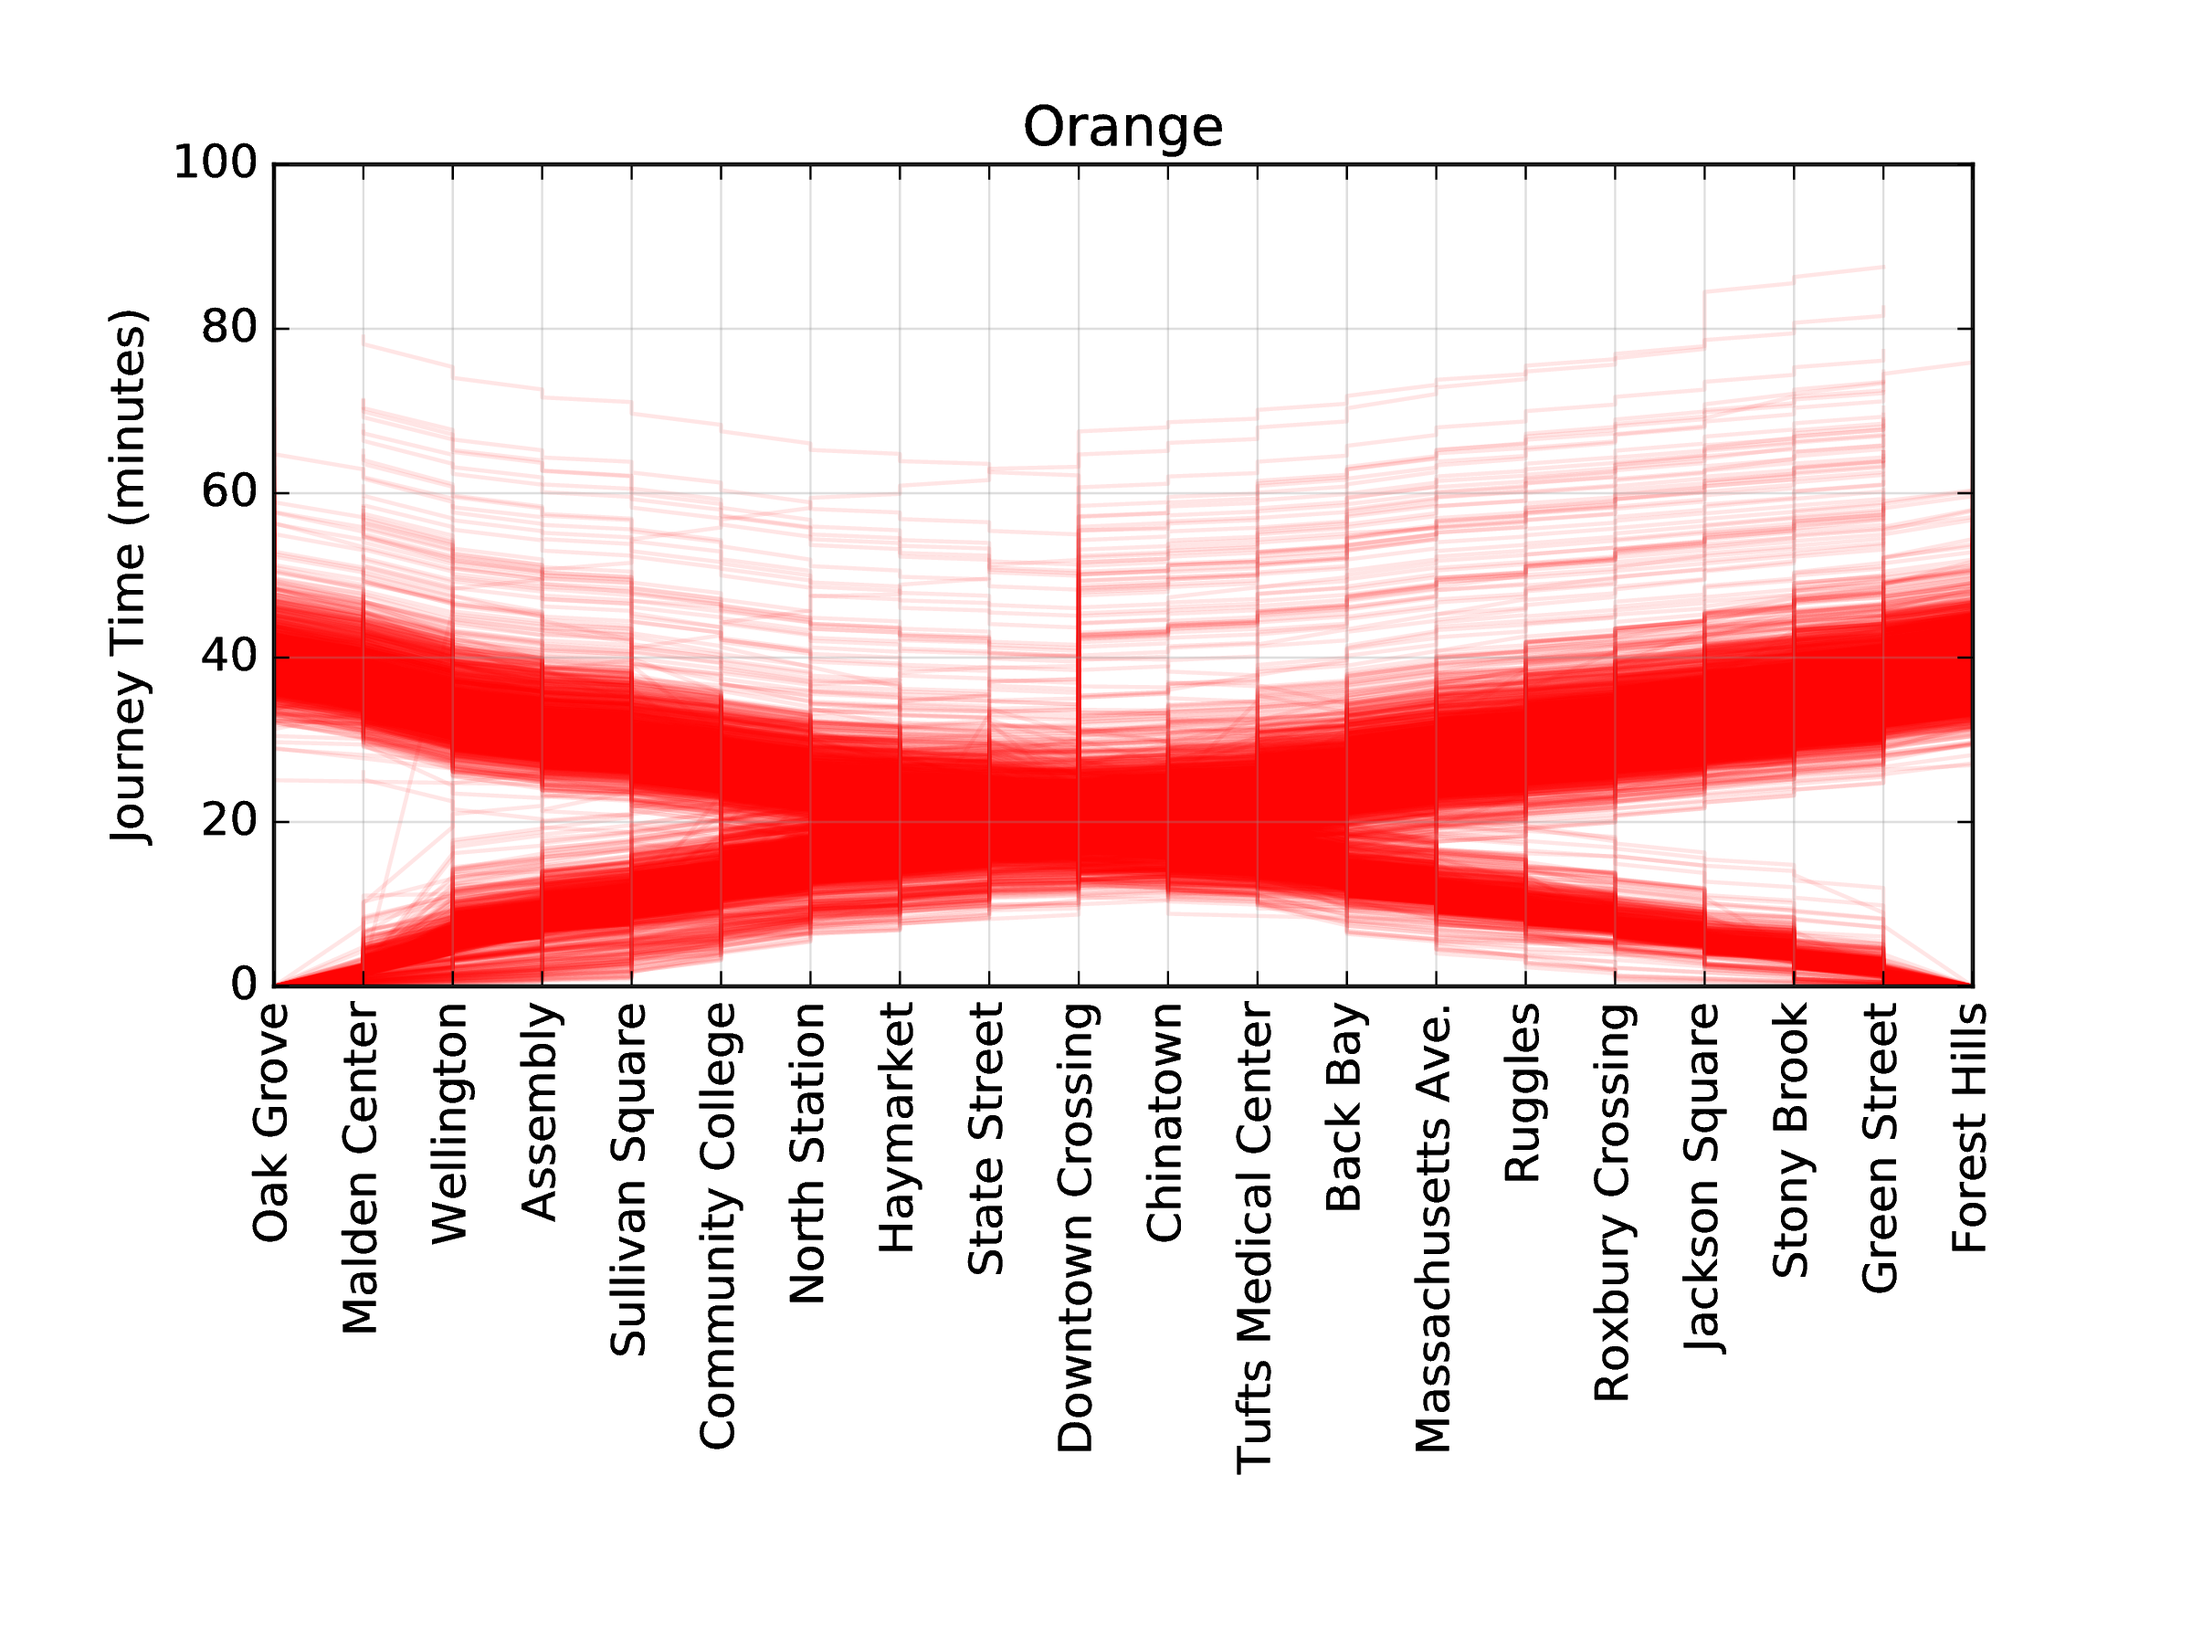
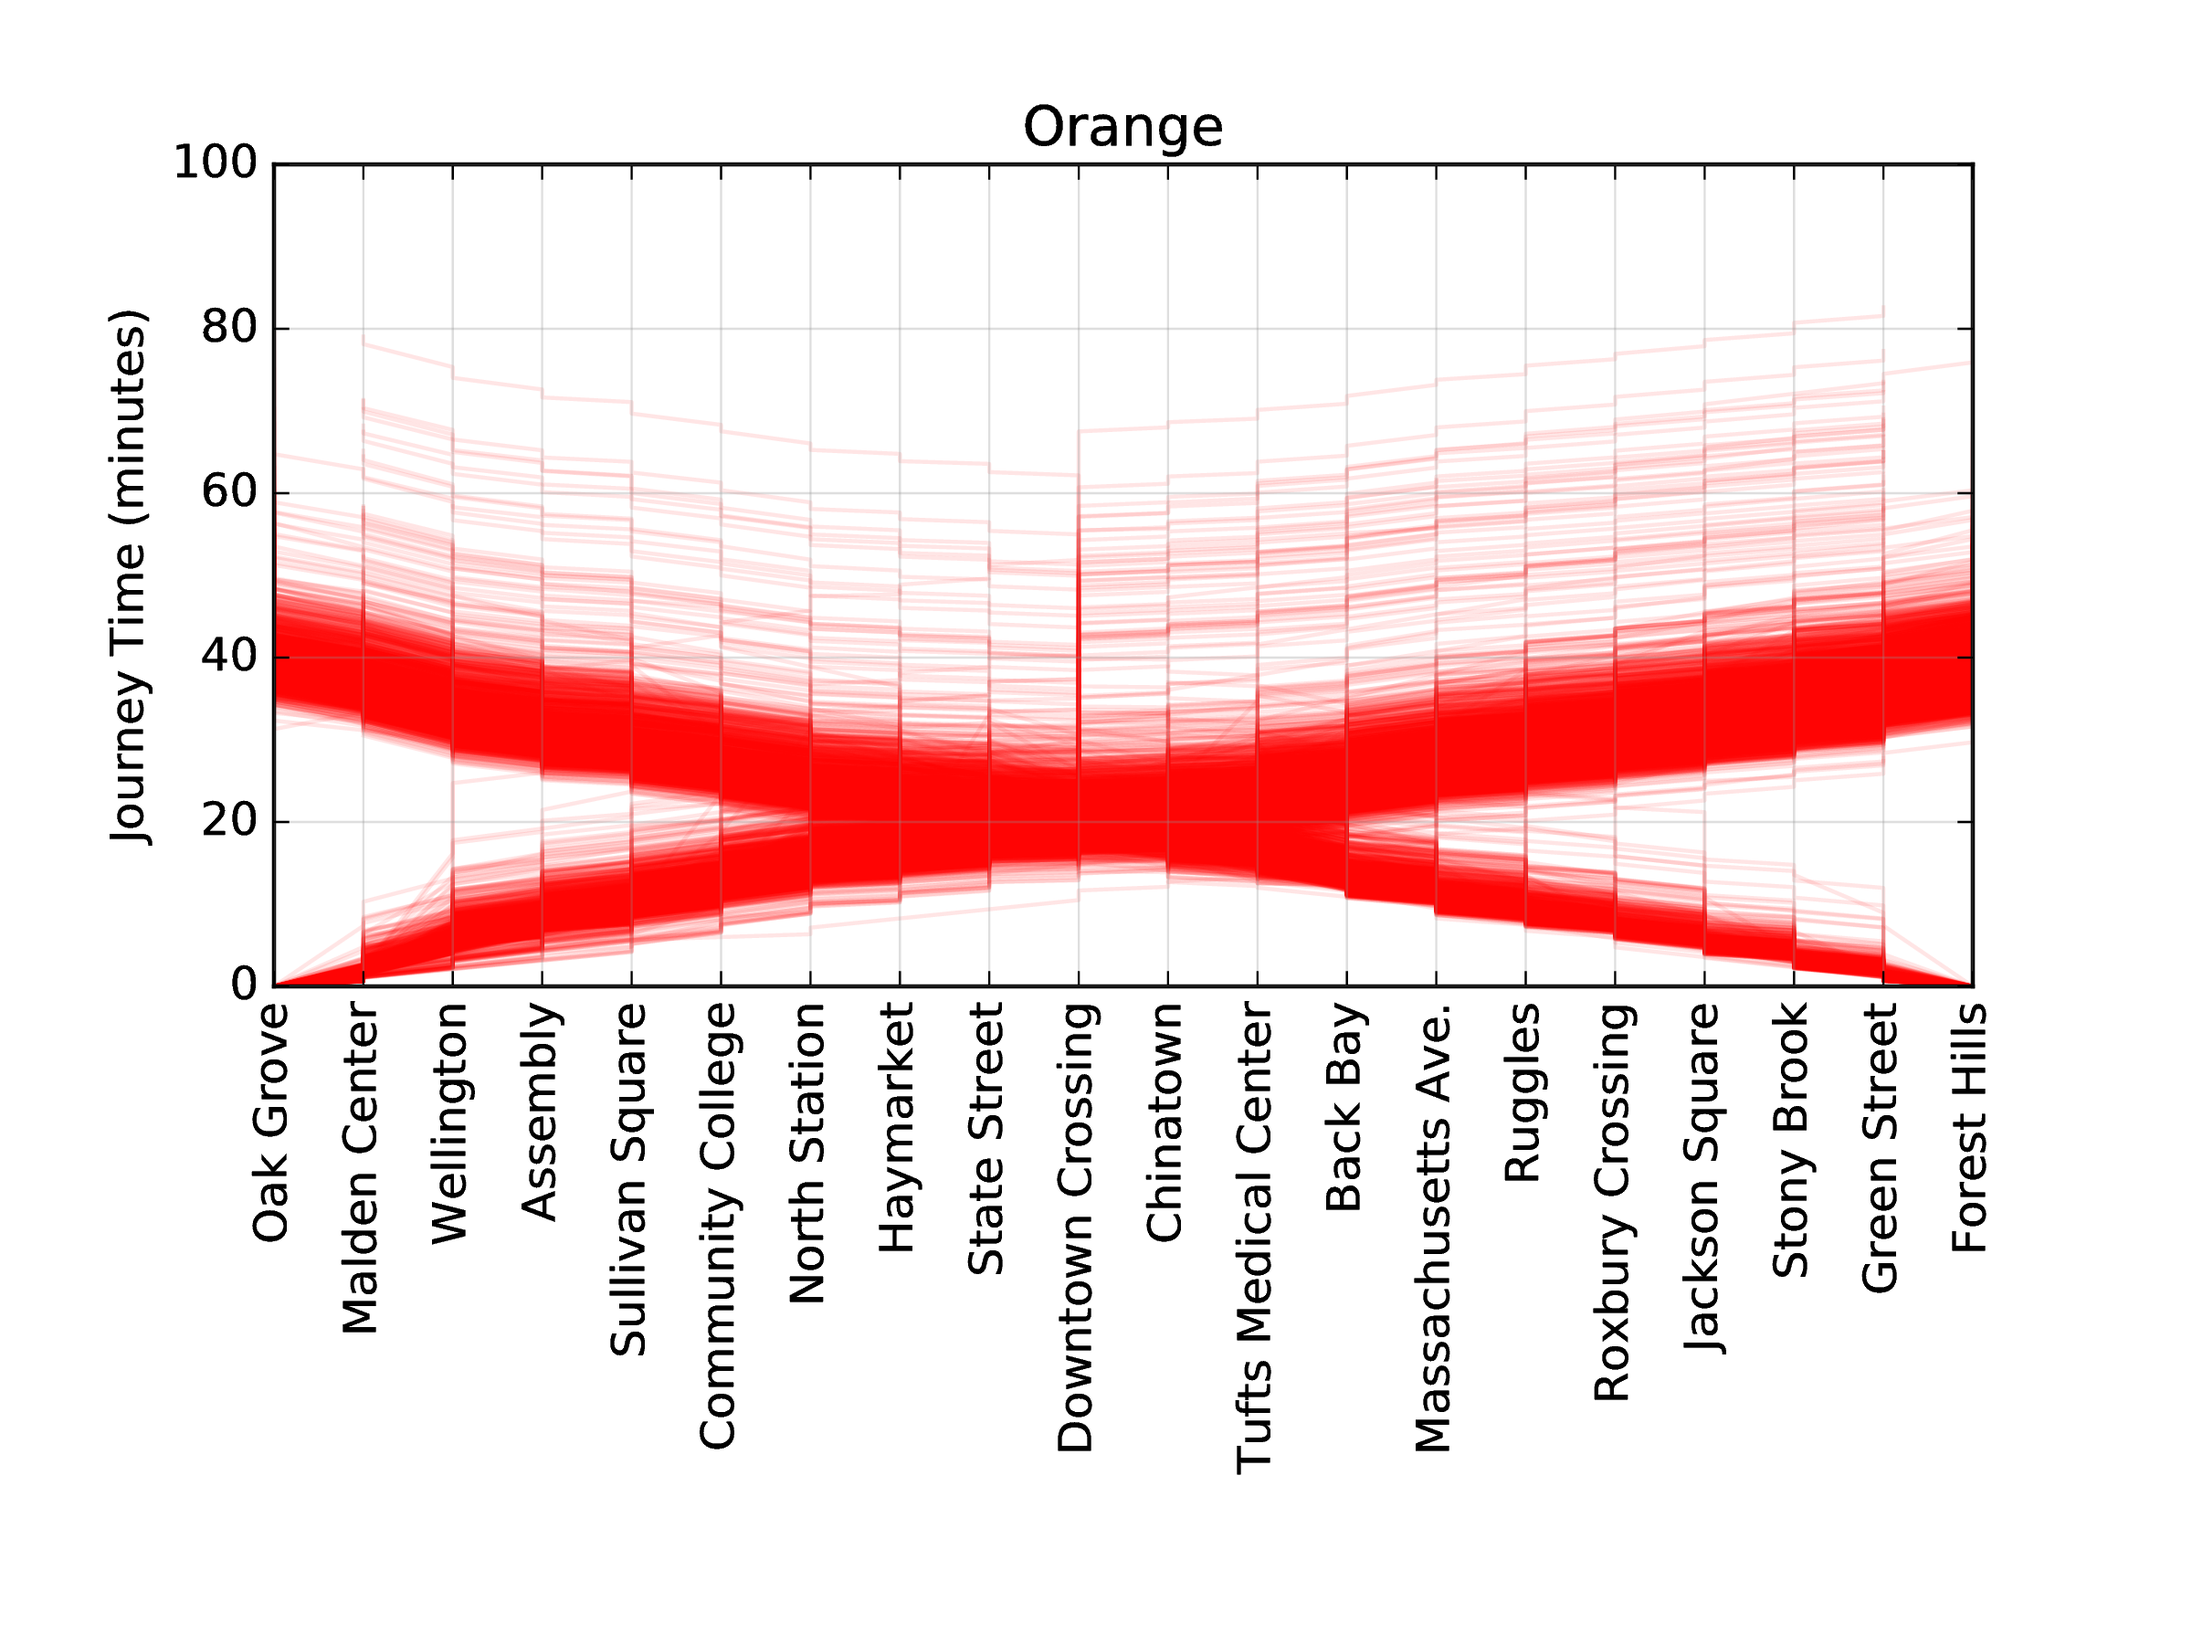
some error catching, and updated readme

diff --git a/scripts/get_travel_dwell_times.py b/scripts/get_travel_dwell_times.py
@@ -3,53 +3,54 @@
 from __future__ import print_function
 
 import os
+import sys
 import json
 import urllib2
+
+sys.path.insert(0, os.path.abspath(os.path.join(os.path.dirname(__file__), '..')))
 
 from datetime import datetime
 from pytz import timezone
 
-import cache
-import train
-
-from utils import ensure_dir, get_line_stops, line_names, ashmont_branch_stations, \
-    braintree_branch_stations
+from mbta_performance import train, cache
+from mbta_performance.utils import ensure_dir, lines
 
 if __name__ == '__main__':
     curr_dir = os.path.dirname (os.path.realpath (__file__))
     lines_dir = '{0}/data/lines'.format (os.path.dirname (curr_dir))
-    traveltimes_dir = '{0}/data/traveltimes'.format (os.path.dirname (curr_dir))
-    dwelltimes_dir = '{0}/data/dwelltimes'.format (os.path.dirname (curr_dir))
+    traveltimes_dir = '{0}/data/traveltimes_test'.format (os.path.dirname (curr_dir))
+    dwelltimes_dir = '{0}/data/dwelltimes_test'.format (os.path.dirname (curr_dir))
 
-    for name in line_names:
+    print ("Travel times saved to", traveltimes_dir)
+    print ("Dwell times saved to", dwelltimes_dir)
+
+    for l in lines:
+        if l.value != 'Green-C':
+            continue
         for d in ("0", "1"):
             tc = train.TrainCollection ()
-            tc.load_base_train (lines_dir, name, direction_id=d)
+            tc.load_base_train (lines_dir, l, direction_id=d)
 
-            # for month in range (1, 4):
-            for month in range (7, 13):
+            # for month in range (7, 13):
+            for month in range (1, 4):
                 for week in range (2):
-                    # start_time = datetime (2016, month, week * 7 + 7, 4, 0, 0)
-                    # start_time = timezone ('US/Eastern').localize (start_time)
-                    # end_time = datetime (2016, month, week * 7 + 14, 3, 59, 59)
-                    # end_time = timezone ('US/Eastern').localize (end_time)
-                    start_time = datetime (2017, month, week * 7 + 7, 4, 0, 0)
+                    start_time = datetime (2016, month, week * 7 + 7, 4, 0, 0)
                     start_time = timezone ('US/Eastern').localize (start_time)
-                    end_time = datetime (2017, month, week * 7 + 14, 3, 59, 59)
+                    end_time = datetime (2016, month, week * 7 + 14, 3, 59, 59)
                     end_time = timezone ('US/Eastern').localize (end_time)
+                    # start_time = datetime (2017, month, week * 7 + 7, 4, 0, 0)
+                    # start_time = timezone ('US/Eastern').localize (start_time)
+                    # end_time = datetime (2017, month, week * 7 + 14, 3, 59, 59)
+                    # end_time = timezone ('US/Eastern').localize (end_time)
 
-                    tt_out_dir = ensure_dir ('{0}/{1}'.format (traveltimes_dir, name))
-                    dt_out_dir = ensure_dir ('{0}/{1}'.format (dwelltimes_dir, name))
+                    print ("Getting travel times for", tc.base_train.name,
+                           tc.base_train.direction_name,
+                           "from", start_time.strftime("%Y-%m-%d %H:%M:%S %Z%z"),
+                           "to", end_time.strftime("%Y-%m-%d %H:%M:%S %Z%z"), "...")
+                    tc.get_traveltimes (traveltimes_dir, start_time, end_time)
 
-                    print ("Getting travel times for", l.name, l.direction_name,
-                        "from", start_time.strftime("%Y-%m-%d %H:%M:%S %Z%z"),
-                        "to", end_time.strftime("%Y-%m-%d %H:%M:%S %Z%z"), "...")
-                    print ("Output saved to", tt_out_dir)
-                    tc.base_train.get_traveltimes (tt_out_dir, start_time, end_time)
-
-                    print ("Getting dwell times for", l.name, l.direction_name,
-                        "from", start_time.strftime("%Y-%m-%d %H:%M:%S %Z%z"),
-                        "to", end_time.strftime("%Y-%m-%d %H:%M:%S %Z%z"), "...")
-                    print ("Output saved to", dt_out_dir)
-                    tc.base_train.get_dwelltimes (dt_out_dir, start_time, end_time)
-
+                    print ("Getting dwell times for", tc.base_train.name,
+                           tc.base_train.direction_name,
+                           "from", start_time.strftime("%Y-%m-%d %H:%M:%S %Z%z"),
+                           "to", end_time.strftime("%Y-%m-%d %H:%M:%S %Z%z"), "...")
+                    tc.get_dwelltimes (dwelltimes_dir, start_time, end_time)

diff --git a/scripts/build_trains.py b/scripts/build_trains.py
@@ -17,8 +17,7 @@ from glob import glob
 from mbta_performance import cache
 from mbta_performance import line
 from mbta_performance import train
-from mbta_performance.utils import ensure_dir, line_names, \
-    ashmont_branch_stations, braintree_branch_stations
+from mbta_performance.utils import ensure_dir, lines
 
 if __name__ == '__main__':
     curr_dir = os.path.dirname (os.path.realpath (__file__))
@@ -30,7 +29,9 @@ if __name__ == '__main__':
 
     # for name in line_names[4:]:
     # for name in line_names[:1]:
-    for name in line_names:
+    for l in lines:
+        if 'Blue' in l.value:
+            continue
         fig = plt.figure ()
         ax = fig.add_subplot (111)
         fig.subplots_adjust(bottom=0.4)
@@ -38,19 +39,14 @@ if __name__ == '__main__':
 
         for d in ("0", "1"):
             tc = train.TrainCollection ()
-            tc.load_base_train (lines_dir, name, direction_id=d)
+            tc.load_base_train (lines_dir, l, direction_id=d)
 
             print (tc.name, tc.base_train.direction_name)
             for p in tc.base_train:
                 print (p)
 
-            tt_files = sorted (glob ('{0}/{1}/{1}_{2}*'.format (
-                traveltimes_dir, tc.name, d)))
-            tc.load_travel_times (tt_files)
-
-            dt_files = sorted (glob ('{0}/{1}/{1}_{2}*'.format (
-                dwelltimes_dir, tc.name, d)))
-            tc.load_dwell_times (dt_files)
+            tc.load_travel_times (traveltimes_dir)
+            tc.load_dwell_times (dwelltimes_dir)
 
             tc.load_trains (num_trains=10000)
             # tc.load_trains (num_trains=1000)
@@ -58,7 +54,8 @@ if __name__ == '__main__':
             if station_dict is None:
                 station_dict = tc.base_train.station_dict
             tc.plot_trains (ax, station_dict)
-            cache.save (tc, '{0}/{1}_{2}.pickle'.format (ana_dir, name, d))
+            cache.save (tc, '{0}/{1}_{2}.pickle'.format (
+                ana_dir, tc.name, tc.base_train.direction_name))
 
         x_locs = range (len (tc.base_train.stops))
         x_labs = [station_dict[i] for i in x_locs]
@@ -67,7 +64,7 @@ if __name__ == '__main__':
         ax.set_ylim (ymin=0)
         ax.set_xticks (x_locs)
         ax.set_xticklabels (x_labs, rotation=90.)
-        ax.set_title (name)
+        ax.set_title (l.value)
         ax.set_ylabel ('Journey Time (minutes)')
-        fig.savefig ('{0}/{1}_travel_time.pdf'.format (plot_dir, name))
+        fig.savefig ('{0}/{1}_travel_time.pdf'.format (plot_dir, l.value))
 

diff --git a/README.md b/README.md
@@ -1,12 +1,21 @@
 # mbta_performance
 
-This project compiles MBTA subway performance data into convenient class for
-further analysis. The necessary modules are found in `mbta_performance`, and
-base MBTA subway line data (in JSON data files) are in `data/lines`.
+## Introduction
 
-The base class to allow an MBTA analysis is
-`mbta_performance.train.TrainCollection`. This class will allow the user to
-download subway performance data, compiled into individual trains. These
+This project compiles MBTA subway performance data into convenient class for
+further analysis. In the MBTA API, train data is provided in JSON format, with
+travel times between stops and stop dwell times available individually. It also
+does not contain tags for individual trains, making tracking of a single train
+through the T-system difficult. This project attempts to simplify the data
+collection from this API, and reduces the data into that of individual trains
+for easy analysis. 
+
+## Usage
+
+The necessary modules are found in `mbta_performance`, and base MBTA subway line
+data (in JSON data files) are in `data/lines`.  The base class to allow an MBTA
+analysis is `mbta_performance.train.TrainCollection`. This class will allow the
+user to download subway performance data, compiled into individual trains. These
 trains can then be used for further analyses (e.g. MBTA delay announcement
 responsiveness, delay magnitude prediction based on weather, etc.).
 
@@ -16,7 +25,8 @@ tc = mbta_performance.train.TrainCollection ()
 tc.load_base_train (<lines data directory location>, <line name>)
 ```
 The train direction can also be set by the `direction_id` tag ("0" or "1").
-Using `datetime` objects, train performance data can be obtained by:
+Using `datetime` objects, train performance data can be downloaded from the MBTA
+API by:
 ```python
 tc.get_traveltimes (<output directory>, start_datetime, end_datetime)
 tc.get_dwelltimes (<output directory>, start_datetime, end_datetime)
@@ -24,32 +34,34 @@ tc.get_dwelltimes (<output directory>, start_datetime, end_datetime)
 
 Once this is done, the obtained files can be loaded for analysis:
 ```python
-tc.load_travel_times (<list of travel time files>)
-tc.load_dwell_times (<list of dwell time files>)
+tc.load_travel_times (<same output directory>)
+tc.load_dwell_times (<same output directory>)
 ```
+
 Based on these files, `Train` objects are created, representing the path of a
 single MBTA train through the line:
 ```python
 tc.load_trains (num_trains=<desired train collection size>)
 ```
 These trains are available at `tc.trains`. Each `Train` (e.g. `t =
-tc.trains[0]`) is a collection of `TrainStop`s (`t.stops`) and `TrainTrack`s
-(`t.tracks`), which hold information on the time the train encountered that
-segment of its journey. All trains in the collection can be iterated through by
-either `for t in tc` or `for t in tc.trains`. `TrainCollection`s further support
-slicing, where `tc[:100]` would return a `TrainCollection` with only the first
-100 `Train`s stored.
+tc.trains[0]`) is a collection of `TrainStop` objects (`t.stops`) and
+`TrainTrack` objects (`t.tracks`), which hold information on the time the train
+encountered that segment of its journey. All trains in the collection can be
+iterated through by either `for t in tc` or `for t in tc.trains`.
+`TrainCollection` objects further support slicing, where `tc[:100]` would return a
+`TrainCollection` with only the first 100 `Train` objects.
 
 Please note that because of missing information, a single `Train` may not have
 information across the entire line. The interval over which the Train has data
-(not necessarily complete) can be assessed through the `t.start` and `t.end`,
+(not necessarily complete) can be assessed through `t.start` and `t.end`,
 which point to the starting point and ending point of the train data. This
 interval can easily be traversed by iterating over the train, for example:
 ```python
 for p in t:
-    print p
+    ...
 ```
-This will access all `Stop`s and `Track`s between the start and end in order.
+This will access all `TrainStop` objects and `TrainTrack` objects between the
+start and end, in line-order (alternating stops and tracks).
 
 A specific segment of a given train can be easily accessed from the usual
 `python` slice syntax. For example, `t[3:8]` would yield a train defined between
@@ -57,14 +69,20 @@ the 3rd and 7th stop in the train's route.
 
 Perhaps the single most important metric for a single train is its end-to-end
 travel time. This can be obtained through `t.total_travel_time`. This will
-return a `tuple` containing the total travel time at index `0`, the train's
-starting stop index at index `1`, and the ending stop index at `2`.
+return a `tuple` containing the total travel time in seconds at index `0`, the
+train's starting stop at index `1`, and the ending stop index at `2`.
+
+To visualize the performance of an ensemble of trains, please see
+`TrainCollection.plot_trains`. This method results figures like:
 
 ![image](data/example_plots/Orange_travel_time.png)
 
-The project contains code necessary to analyze MBTA T performance. To get T
-data for a desired set of dates, see `scripts/get_travel_dwell_times.py`. A
-corpora of MBTA tweets can be obtained using `scripts/get_mbta_tweets.py`.
-Finally, to visualize T travel time performance for the data downloaded, see
-`scripts/build_trains.py`.
+## Examples 
+
+For example analysis scripts, please see `scripts/get_travel_dwell_times.py` (an
+example to download T data) and `scripts/build_trains.py` (an example in
+loading data and visualizing T travel times). A possible analysis of this T-data
+might involve MBTA responsiveness in delay announcements. A corpora of these
+announcements can be obtained for Twitter following the example of
+`scripts/get_mbta_tweets.py`.
 
